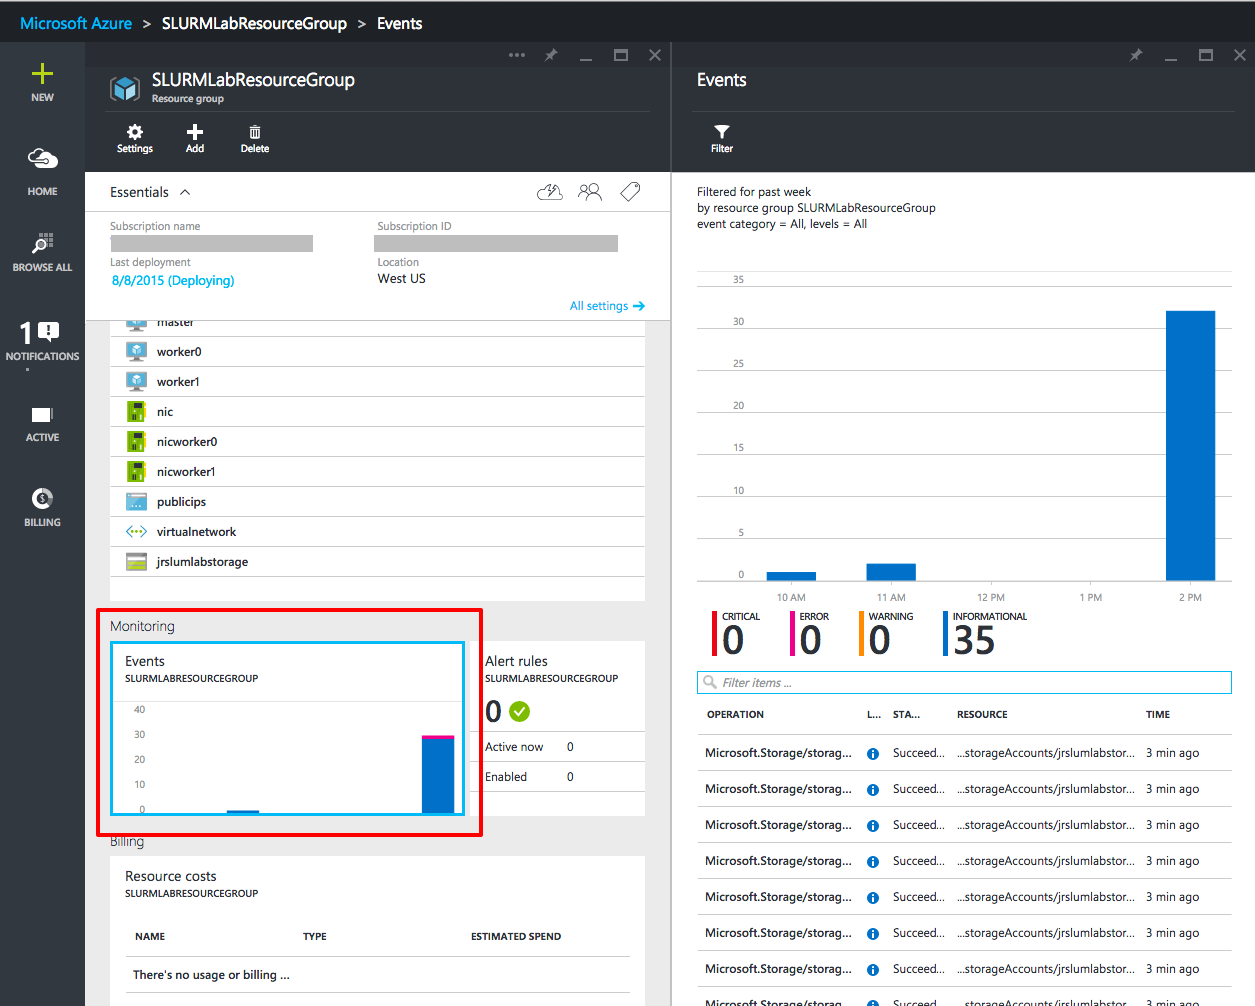
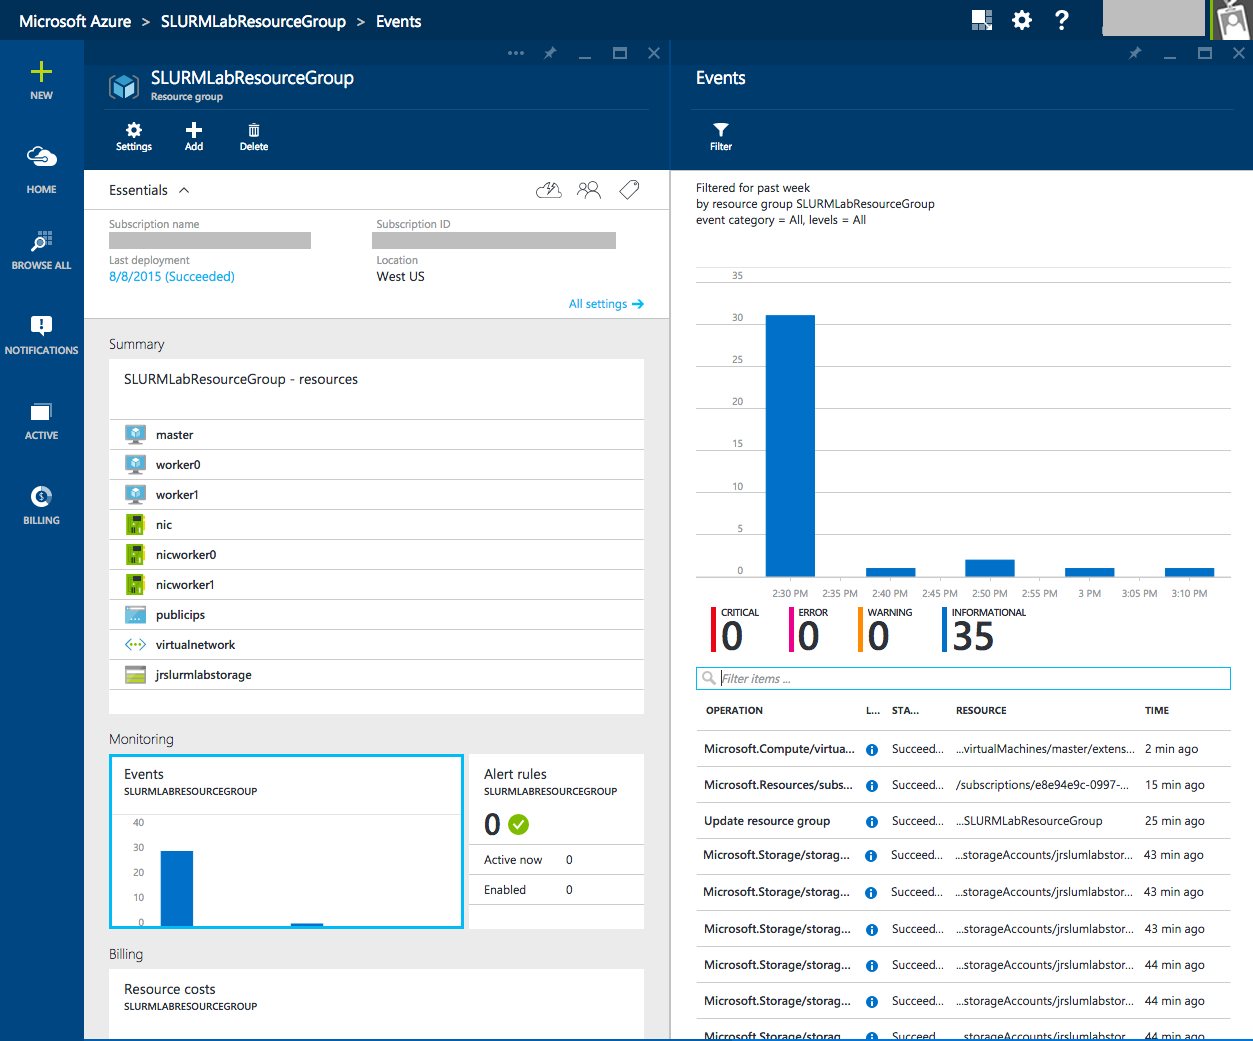
Finished deployment Exercise 2

diff --git a/Content/On-Demand High Throughput and High Performance Computing in Azure/SLURM Linux Cluster HOL/SLURM Linux Cluster HOL.md b/Content/On-Demand High Throughput and High Performance Computing in Azure/SLURM Linux Cluster HOL/SLURM Linux Cluster HOL.md
@@ -132,7 +132,7 @@ The template you are going to use, which you can [view here](https://github.com/
 
 1. Click the OK button on the bottom of the Parameters blade. Fix any errors reported.
 
-1. Back in he Custom deployment blade click the **Resource group** button, and in the Resource group blade select the resource group you created in [Exercise 1](#Exercise1). This will automatically fill in the Resource group location in the Custom deployment blade.
+1. Back in the Custom deployment blade click the **Resource group** button, and in the Resource group blade select the resource group you created in [Exercise 1](#Exercise1). This will automatically fill in the Resource group location in the Custom deployment blade.
 
     ![Template Resource Group](images/template-resource-group.png)
 
@@ -150,12 +150,6 @@ The template you are going to use, which you can [view here](https://github.com/
 
      _Starting the deployment_
 
-1. From the Portal Startboard, you'll see the new item being processed.
-
-    ![Startboard with Provisioning](images/template-deployment-provisioning.png)
-
-     _The provisioning working_
-
 1. The provisioning and loading of the SLURM cluster can take ten or more minutes. You can monitor the state of the deployment by looking at the resource group group. If you pinned the resource group you created in [Exercise 1](#Exercise1), double clicking on it will bring up the blade and you can see the events. If you did not pin the resource group, on the left hand side of the portal, select Browse All, Resource groups and double click on your resource group in the Resource group blade. Either way you will end up with the resource group blade as shown below.
 
     ![Deployment status](images/template-status-in-resource.png)
@@ -166,10 +160,15 @@ The template you are going to use, which you can [view here](https://github.com/
 
     ![Deployment status](images/template-group-events.png)
 
-     _Checking the deployment_
+     _Deployment Events_
+
+1. When the deployment finishes, you'll see a notification in the Notification blade and the state of the Last deployment in the resource group blade will switch to Succeeded.
+
+    ![Deployment status](images/template-deployment-succeeded.png)
+
+     _Deployment Succeeded_
 
 In this exercise you learned about Azure templates and where you can find many excellent templates from Microsoft to assist in setting up complicated deployments. You also learned the steps for starting a deployment from one of those templates.
-
 
 <a name="Exercise3"></a>
 ## Exercise 3: Creating the input and output blob storage.
